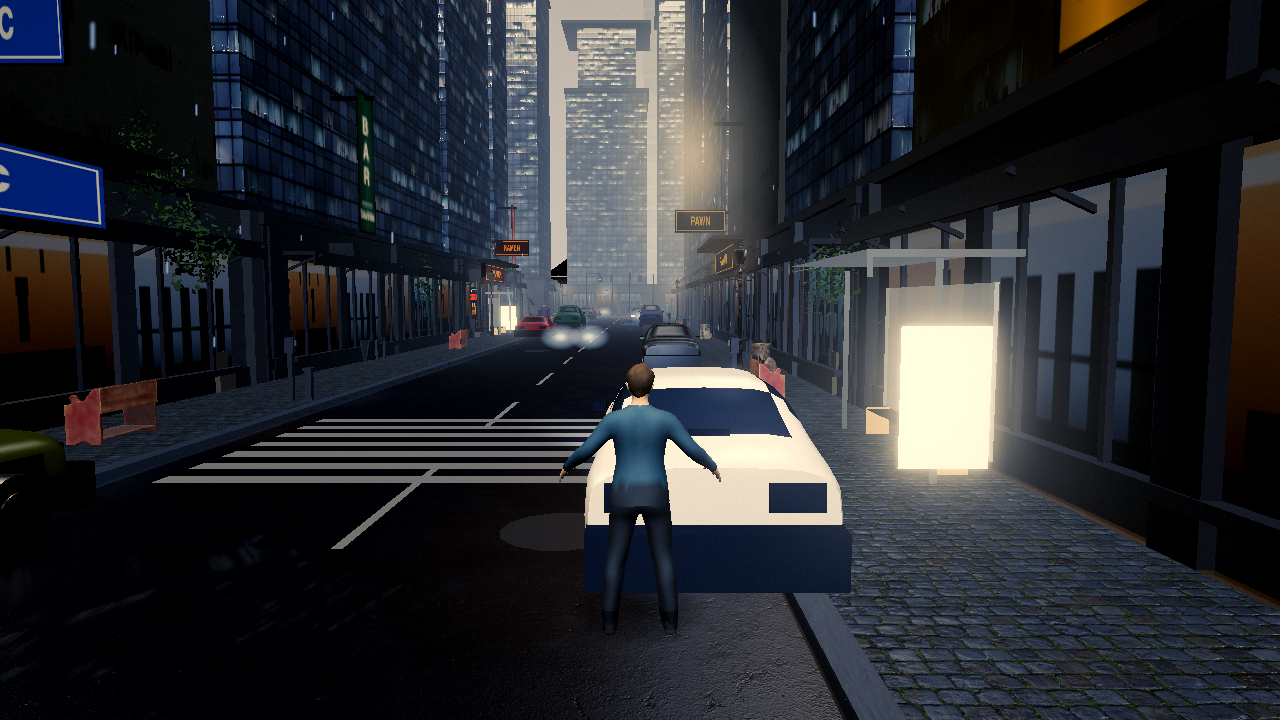
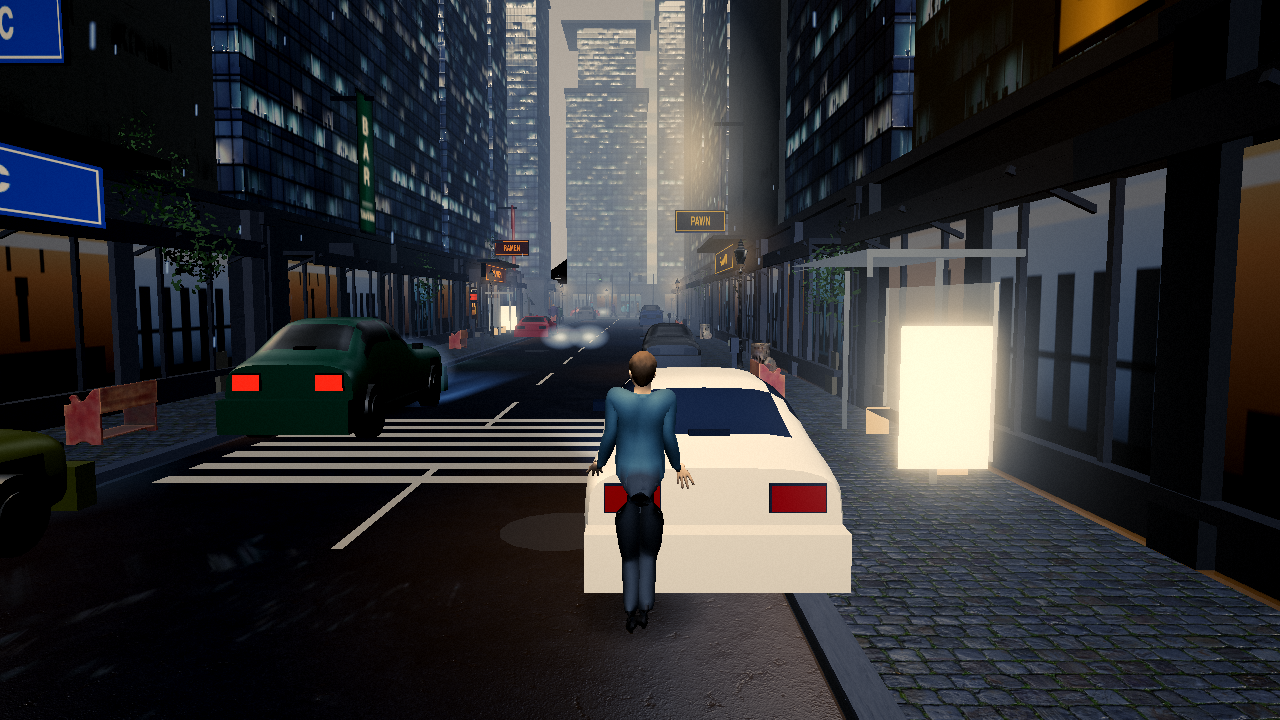
M2.F2d (M2-0): the player stands naturally
Task M2.F2d, filled by opencode-go/deepseek-v4.1-flash and checked by scripts/crew.mjs: task checks green, draws 125.

diff --git a/src/render/player.js b/src/render/player.js
@@ -27,6 +27,11 @@ export function loadPersonAvatar(avatar) {
     avatar.mixer = new THREE.AnimationMixer(gltf.scene);
     avatar.walk = avatar.mixer.clipAction(walk);
     avatar.idle = idle && avatar.mixer.clipAction(idle);
+    // A clip poses bones only while its action plays; the walk used to sit
+    // outside the mixer, so its fade to full weight moved the skeleton nowhere
+    // and the mesh fell back to the bind T-pose. Both clips play; the weights
+    // below cross-fade them.
+    avatar.walk.play();
     avatar.idle?.play();
     avatar.walkWeight = 0;
     for (const m of [...avatar.group.children]) avatar.group.remove(m);
@@ -277,7 +282,15 @@ export function updatePlayer(avatar, player, dt) {
   // leaking into a still frame — the walk only plays while walking.
   if (avatar.mixer) {
     const moving = player.speed > IDLE_SPEED;
-    const fade = Math.min(1, dt / BLEND_TIME);
+    // scene.js calls this with the blended draw pose only, so dt arrives
+    // undefined; fall back to the clock, clamped like the loop's 50 ms so a
+    // stalled tab cannot jump the blend. A missing dt used to make this
+    // weight NaN, and a NaN weight binds no clip at all: the mesh sat in its
+    // bind pose, arms out, however still the player stood.
+    const now = performance.now();
+    const step = Math.min(Number.isFinite(dt) ? dt : (now - (avatar.lastUpdateMs ?? now)) / 1000, 0.05);
+    avatar.lastUpdateMs = now;
+    const fade = Math.min(1, step / BLEND_TIME);
     const target = moving ? 1 : 0;
     if (avatar.walkWeight === undefined) avatar.walkWeight = target;
     avatar.walkWeight += (target - avatar.walkWeight) * fade;

diff --git a/tools/models/make_person.py b/tools/models/make_person.py
@@ -4,9 +4,10 @@
 # assets_cc0, CC0): skin material, low-poly eyes, short hair, a casual suit and
 # shoes, all fitted and weight-copied onto the body. The CMU mocap walk vendored
 # at tools/models/mocap/cmu-08_01-walk.bvh has its joints copied pose-for-pose
-# onto the rig for one full gait cycle, grounded every frame; a second `Idle`
-# clip holds the cycle's closest-to-rest frame, two identical keys, so the
-# avatar stands still instead of walking in place while it is not moving. All
+# onto the rig for one full gait cycle, grounded every frame; M2.F2d: a second
+# `Idle` clip is the mean of that cycle — arms hanging where the swing centres
+# them, the walk's own slight elbow bend, both legs under the hips — keyed twice
+# so a still frame is a relaxed stand and not a cadence frozen mid-step. All
 # parts are merged, decimated under the tri budget, vertex-coloured and
 # exported to PERSON_OUT (default public/assets/models/person.glb): one skinned
 # mesh, one material, `Walk` + `Idle`.
@@ -178,12 +179,25 @@ def retarget(source, rig, frame):
     bpy.context.view_layer.update()
 
 
-def ground(rig, body):
-    """Put the lowest point of the posed body on z = 0: feet on the pavement."""
+def dressed_low(objs):
+    """Lowest world z of every dressed part in the current pose. The bare body
+    stops at its own sole; the fitted shoes hang past it once the feet are
+    posed, so grounding on the body alone left the dressed figure ankle-deep
+    in the pavement."""
     deps = bpy.context.evaluated_depsgraph_get()
-    mesh = body.evaluated_get(deps).to_mesh()
-    low = min((body.matrix_world @ v.co).z for v in mesh.vertices)
-    body.evaluated_get(deps).to_mesh_clear()
+    low = None
+    for ob in objs:
+        mesh = ob.evaluated_get(deps).to_mesh()
+        z = min((ob.matrix_world @ v.co).z for v in mesh.vertices)
+        ob.evaluated_get(deps).to_mesh_clear()
+        low = z if low is None else min(low, z)
+    return low
+
+
+def ground(rig, objs):
+    """Put the lowest point of the posed, dressed figure on z = 0: soles on
+    the pavement."""
+    low = dressed_low(objs)
     hips = rig.pose.bones['Hips']
     rest = hips.bone.matrix_local.to_3x3()
     hips.location = hips.location + rest.inverted() @ Vector((0.0, 0.0, -low))
@@ -197,28 +211,57 @@ def key_pose(rig, frame):
     rig.pose.bones['Hips'].keyframe_insert(data_path='location', frame=frame)
 
 
-def bake_walk(source, rig, body, start, cycle):
+def bake_walk(source, rig, objs, start, cycle):
     for frame in range(start, start + cycle + 1):
         retarget(source, rig, frame)
-        ground(rig, body)
+        ground(rig, objs)
         key_pose(rig, frame)
     action = rig.animation_data.action
     action.name = 'Walk'
     return action
 
 
-def bake_idle(rig, source, body, rest_frame):
-    """A new action, not the still-active one: the walk's closest-to-rest
-    frame, retargeted and keyed at two identical frames — a held stand that
-    loops cleanly, so standing still reads as standing, not as a walk frozen
-    mid-cadence."""
+def mean_walk_pose(source, rig, objs, start, cycle):
+    """The stand the walk itself implies: each joint's mean orientation over
+    one gait cycle, hips averaged too. The swing's centre leaves the arms
+    hanging by the sides with the walk's own slight elbow bend, and both legs
+    average under the hips, so the weight rests on both feet. A held walk frame
+    keeps one foot mid-step whatever frame is picked; the mean has no step in
+    it."""
+    quats = {pb.name: [] for pb in rig.pose.bones}
+    hips = Vector((0.0, 0.0, 0.0))
+    for frame in range(start, start + cycle):
+        retarget(source, rig, frame)
+        ground(rig, objs)
+        for pb in rig.pose.bones:
+            q = pb.rotation_quaternion.copy()
+            # Quaternions are a double cover: average one hemisphere or the
+            # sum of two mirrored samples cancels to zero.
+            if quats[pb.name] and q.dot(quats[pb.name][0]) < 0.0:
+                q.negate()
+            quats[pb.name].append(q)
+        hips = hips + rig.pose.bones['Hips'].location
+    for pb in rig.pose.bones:
+        avg = quats[pb.name][0]
+        for q in quats[pb.name][1:]:
+            avg = avg + q
+        pb.rotation_quaternion = avg.normalized()
+    rig.pose.bones['Hips'].location = hips / cycle
+    # ground() reads the evaluated mesh; without this the depsgraph still holds
+    # the last sampled walk frame, and the correction grounds the wrong pose.
+    bpy.context.view_layer.update()
+    ground(rig, objs)
+
+
+def bake_idle(rig, source, objs, start, cycle):
+    """A new action, not the still-active walk: the mean stand keyed at two
+    identical frames — a held pose that loops cleanly, so standing still reads
+    as standing, not as a walk frozen mid-cadence."""
     idle = bpy.data.actions.new('Idle')
     bpy.context.view_layer.objects.active = rig
     rig.animation_data.action = idle
-    retarget(source, rig, rest_frame)
-    ground(rig, body)
+    mean_walk_pose(source, rig, objs, start, cycle)
     key_pose(rig, 1)
-    retarget(source, rig, rest_frame)
     key_pose(rig, 2)
     return idle
 
@@ -381,8 +424,8 @@ def main():
         # The low-poly eyes join without usable weights and their pale sphere
         # spread over the torso; the sockets read fine at game distance, so the
         # eyes stay unequipped until eyetrack is a real thing.
-        equip(body, 'hair', 'short02', asset_type='hair',
-              material_type='MAKESKIN')
+        hair = equip(body, 'hair', 'short02', asset_type='hair',
+                     material_type='MAKESKIN')
         suit = equip(body, 'clothes', 'male_casualsuit02', asset_type='Clothes',
                      material_type='MAKESKIN')
         shoes = equip(body, 'clothes', 'shoes05', asset_type='Clothes',
@@ -394,10 +437,9 @@ def main():
     source = import_walk()
     bvh_action = bpy.data.actions.get(source.animation_data.action.name)
     start, cycle = gait_window(source)
-    walk = bake_walk(source, rig, body, start, cycle)
-    rest_frame = min(range(start, start + cycle),
-                     key=lambda f: abs(foot_separation(source, f)))
-    idle = bake_idle(rig, source, body, rest_frame)
+    dress = (body, hair, suit, shoes)
+    walk = bake_walk(source, rig, dress, start, cycle)
+    idle = bake_idle(rig, source, dress, start, cycle)
     bpy.data.objects.remove(source, do_unlink=True)
     if bvh_action and bvh_action.users == 0:
         bpy.data.actions.remove(bvh_action)
@@ -405,8 +447,7 @@ def main():
     rig.animation_data.action = walk
 
     parts = {'eyes': ObjectService.find_object_of_type_amongst_nearest_relatives(body, 'Eyes'),
-             'hair': ObjectService.find_object_of_type_amongst_nearest_relatives(body, 'Hair'),
-             'suit': suit, 'shoes': shoes}
+             'hair': hair, 'suit': suit, 'shoes': shoes}
     paint(body, parts)
     merge(body, parts)
     tris = decimate(body)
